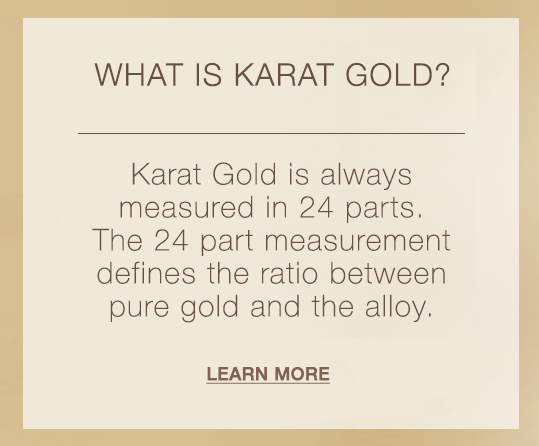
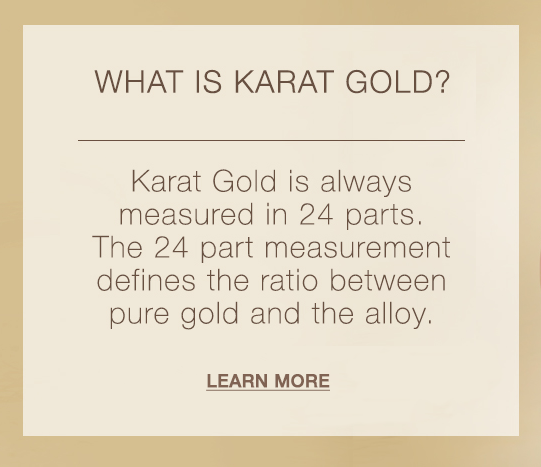
fixed the text on the carousel for md screens

diff --git a/css/style.css b/css/style.css
@@ -725,6 +725,26 @@ div.migm-slide p {
 
 @media screen and (max-width: 1100px) {
 
+    .slider-text {
+        position: absolute;
+        top: 30px;
+        left: 50px;
+    }
+
+    div.migm-slide h1 {
+        font-size: 30px;
+        font-weight: 300;
+        max-width: 520px;
+        padding-bottom: 20px;
+
+    }
+
+    div.migm-slide p {
+        font-size: 16px;
+        line-height: 25px;
+        padding-bottom: 20px;
+    }
+
     img.gold-guide {
         width: 300px;
     } 

diff --git a/socialcontest.php b/socialcontest.php
@@ -63,8 +63,8 @@
                 <a href="<cms:link masterpage='socialcontest.php' page='main-contest' />"><img src="<cms:show k_site_link />img/main-contest-button.png" class="contest-button  hidden-md hidden-lg padding-top-standard padding-bottom-standard"></a>
               </div>
               <div class="col-sm-4">
-                <a href="#"><img src="<cms:show k_site_link />img/check-trend-button.png" class=" hidden-xs hidden-sm contest-button" style="margin-left: 55px; padding-top: 25px; padding-bottom: 40px;"></a>
-                <a href="#"><img src="<cms:show k_site_link />img/check-trend-button.png" class=" hidden-md hidden-lg contest-button padding-top-standard padding-bottom-standard"></a>
+                <a href="<cms:show k_site_link />#trends"><img src="<cms:show k_site_link />img/check-trend-button.png" class=" hidden-xs hidden-sm contest-button" style="margin-left: 55px; padding-top: 25px; padding-bottom: 40px;"></a>
+                <a href="<cms:show k_site_link />#trends"><img src="<cms:show k_site_link />img/check-trend-button.png" class=" hidden-md hidden-lg contest-button padding-top-standard padding-bottom-standard"></a>
               </div>
               <div class="col-sm-4">
                 <a href="<cms:link masterpage='socialcontest.php' page='instagram-contest' />"><img src="<cms:show k_site_link />img/pic-button.png" class="hidden-xs hidden-sm contest-button padding-top-standard pull-right" style="margin-right: 60px; padding-top: 25px; padding-bottom: 40px;"></a>
@@ -78,10 +78,11 @@
           <div class="row" id="main-contest">
             <div class="col-xs-12">
               <img src="<cms:show k_site_link />img/main-contest-rules.png" class="center-block hidden-xs"/>
+
               <div class="contest-text hidden-sm hidden-md hidden-lg">
-                <p class="text-center"><span class="yellowFont" style="font-size: 40px;">1.</span><br>Complete out <b>"Pin to Win"</b> entry form to the right between 12AM April 14th and 11:59PM May 31st, 2015.</p>
-                <p class="text-center"><span class="yellowFont" style="font-size: 40px;">2.</span><br>Finish inspiration from any of our  <b>May Is Gold Month Pinterest</b> boards or the gold jewelry pages of our participating retail partners.</p>
-                <p class="text-center"><span class="yellowFont" style="font-size: 40px;">3.</span><br><b>Pin</b> your favorite gold designs or create a board of your favorites.</p>
+                <p class="text-center"><span class="yellowFont" style="font-size: 40px;">1.</span><br>Complete the online <b>entry form</b> below, including first name, last name and email address before May 31st 11:59pm for a chance to win $1000 shopping Karat Gold shopping spree with one of our participating retailers.</p>
+                <p class="text-center"><span class="yellowFont" style="font-size: 40px;">2.</span><br>You may earn <b>additional entries</b> by visiting any of our 19 partner retailer sites.</p>
+                <p class="text-center"><span class="yellowFont" style="font-size: 40px;">3.</span><br>You will receive <b>weekly updates</b> on Karat Gold trends and educational tips throughout the month of May.</p>
               </div>
 
               <br>
@@ -102,8 +103,8 @@
                 <a href="<cms:link masterpage='socialcontest.php' page='pinterest-contest' />"><img src="<cms:show k_site_link />img/pin-button.png" class="contest-button  hidden-md hidden-lg padding-top-standard padding-bottom-standard"></a>
               </div>
               <div class="col-sm-4">
-                <a href="#"><img src="<cms:show k_site_link />img/check-trend-button.png" class=" hidden-xs hidden-sm contest-button" style="margin-left: 55px; padding-top: 25px; padding-bottom: 40px;"></a>
-                <a href="#"><img src="<cms:show k_site_link />img/check-trend-button.png" class=" hidden-md hidden-lg contest-button padding-top-standard padding-bottom-standard"></a>
+                <a href="<cms:show k_site_link />#trends"><img src="<cms:show k_site_link />img/check-trend-button.png" class=" hidden-xs hidden-sm contest-button" style="margin-left: 55px; padding-top: 25px; padding-bottom: 40px;"></a>
+                <a href="<cms:show k_site_link />#trends"><img src="<cms:show k_site_link />img/check-trend-button.png" class=" hidden-md hidden-lg contest-button padding-top-standard padding-bottom-standard"></a>
               </div>
               <div class="col-sm-4">
                 <a href="<cms:link masterpage='socialcontest.php' page='instagram-contest' />"><img src="<cms:show k_site_link />img/pic-button.png" class="hidden-xs hidden-sm contest-button padding-top-standard pull-right" style="margin-right: 60px; padding-top: 25px; padding-bottom: 40px;"></a>
@@ -131,8 +132,8 @@
                     <a href="<cms:link masterpage='socialcontest.php' page='main-contest' />"><img src="<cms:show k_site_link />img/main-contest-button.png" class="contest-button  hidden-md hidden-lg padding-top-standard padding-bottom-standard"></a>
                   </div>
                   <div class="col-sm-4">
-                    <a href="#"><img src="<cms:show k_site_link />img/check-trend-button.png" class=" hidden-xs hidden-sm contest-button" style="margin-left: 55px; padding-top: 25px; padding-bottom: 40px;"></a>
-                    <a href="#"><img src="<cms:show k_site_link />img/check-trend-button.png" class=" hidden-md hidden-lg contest-button padding-top-standard padding-bottom-standard"></a>
+                    <a href="<cms:show k_site_link />#trends"><img src="<cms:show k_site_link />img/check-trend-button.png" class=" hidden-xs hidden-sm contest-button" style="margin-left: 55px; padding-top: 25px; padding-bottom: 40px;"></a>
+                    <a href="<cms:show k_site_link />#trends"><img src="<cms:show k_site_link />img/check-trend-button.png" class=" hidden-md hidden-lg contest-button padding-top-standard padding-bottom-standard"></a>
                   </div>
                   <div class="col-sm-4">
                     <a href="<cms:link masterpage='socialcontest.php' page='pinterest-contest' />"><img src="<cms:show k_site_link />img/pin-button.png" class="hidden-xs hidden-sm contest-button padding-top-standard pull-right" style="margin-right: 60px; padding-top: 25px; padding-bottom: 40px;"></a>

diff --git a/index.php b/index.php
@@ -376,7 +376,7 @@
                   <cms:pages masterpage="trendboard.php" limit='1'>
                   <div class="hidden-xs">
                     <p id="week-number"><b>WEEK <cms:show week_number/>:</b></p>
-                    <p class="yellowFont uppercase" id="trends-subtitle"><cms:show week_title /></p>
+                    <p class="yellowFont uppercase" style="text-transform: uppercase;" id="trends-subtitle"><cms:show week_title /></p>
                   </div>
                   <a href="<cms:show trend_url />"><img src="<cms:show trend_image />" class="img-responsive hidden-xs" id="trends-image"/></a>
                   <a href="<cms:show trend_url />"><img src="<cms:show mobile_trend_image />" class="img-responsive hidden-sm hidden-md hidden-lg" id="trends-image" style="max-width: 400px"/></a>
